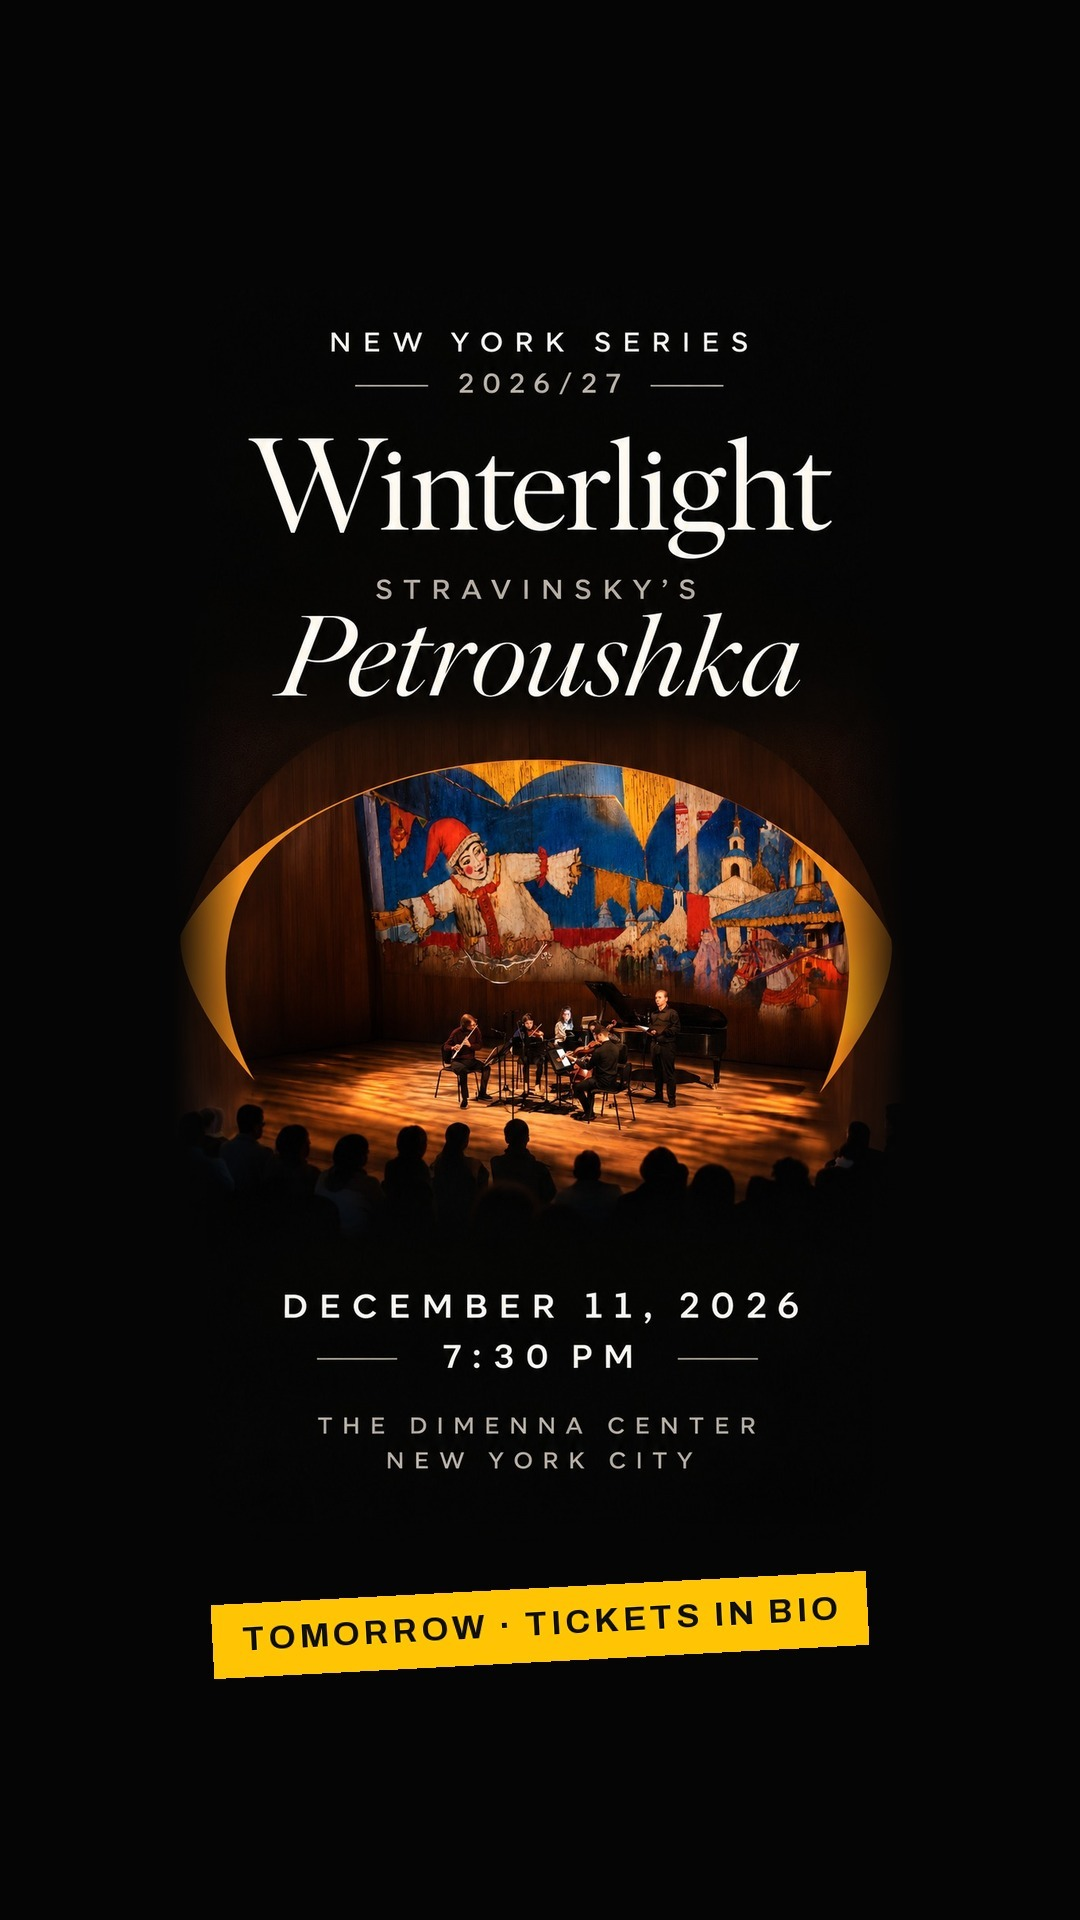
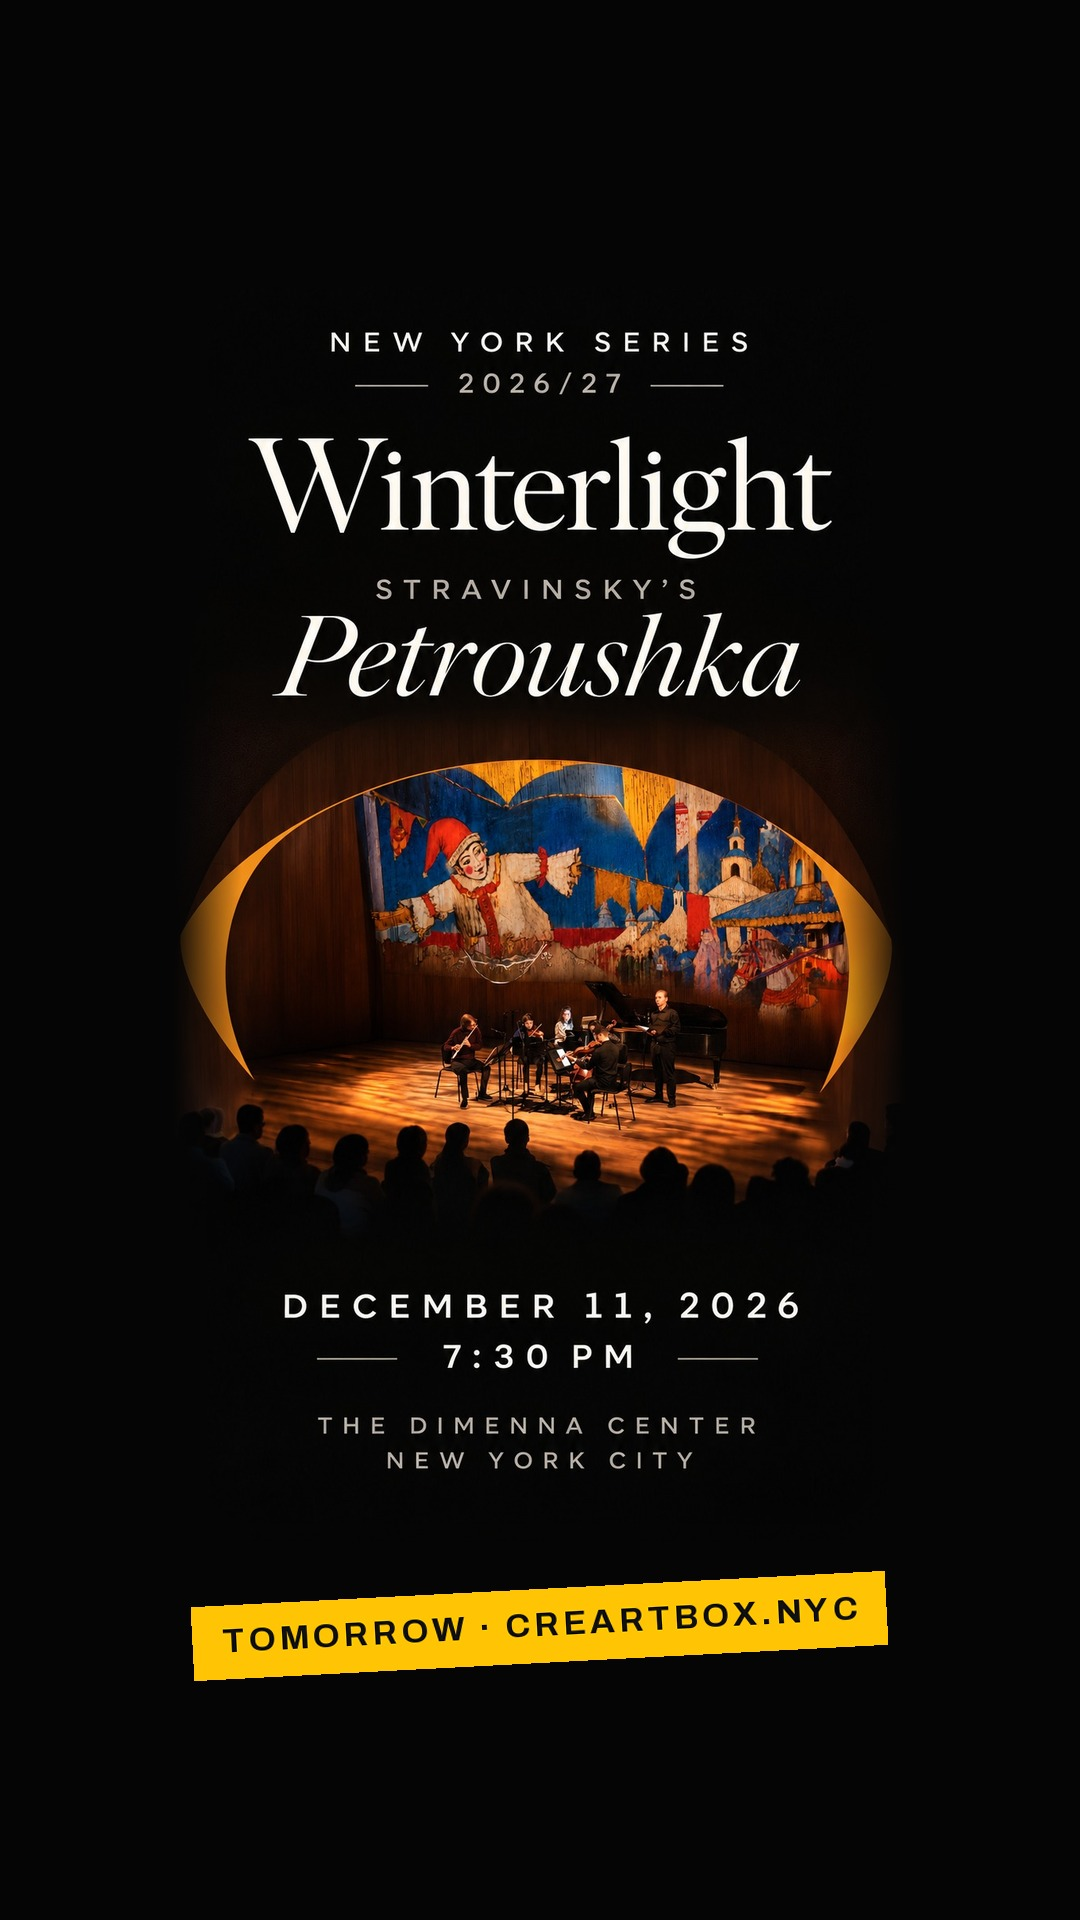
Fuera «link in bio»: textos e imágenes mandan a creartbox.nyc; Feverdream y Pressure and Release, al archivo hasta enero
Claude-Session: https://claude.ai/code/session_0135dvaV41U2wFKvXfjD2MLS

Changed region(s): [[0.1528, 0.8125, 0.825, 0.875]]

diff --git a/herramientas/REPASO.md b/herramientas/REPASO.md
@@ -39,7 +39,11 @@ lo que hay entre medias.
 - Textos: frases cortas, que no suene a IA, **nunca la raya «—»**. La
   convocatoria es «Open Call», nunca «Calls for Scores». La Open Call en
   plan guía, sencilla.
-- En Instagram el enlace va «in bio»; en Facebook, el enlace entero.
+- Nunca «link in bio»: siempre a la web, «Tickets at creartbox.nyc», «Apply:
+  creartbox.nyc», también en las pegatinas. En Facebook, esa línea se cambia
+  sola por el enlace entero.
+- Feverdream y Pressure and Release: archivados hasta enero de 2027.
+  Recuperarlos en el primer check de enero.
 - Colaboradores en Instagram: los de `colaboradores` de la ficha si los
   trae (máximo 3); si no, `thedimennacenter` para lo que pasa en la DiMenna.
 - Fotos de Currents (30 oct 2026): de Tao Ho, `@toseiho`. Darle crédito.
